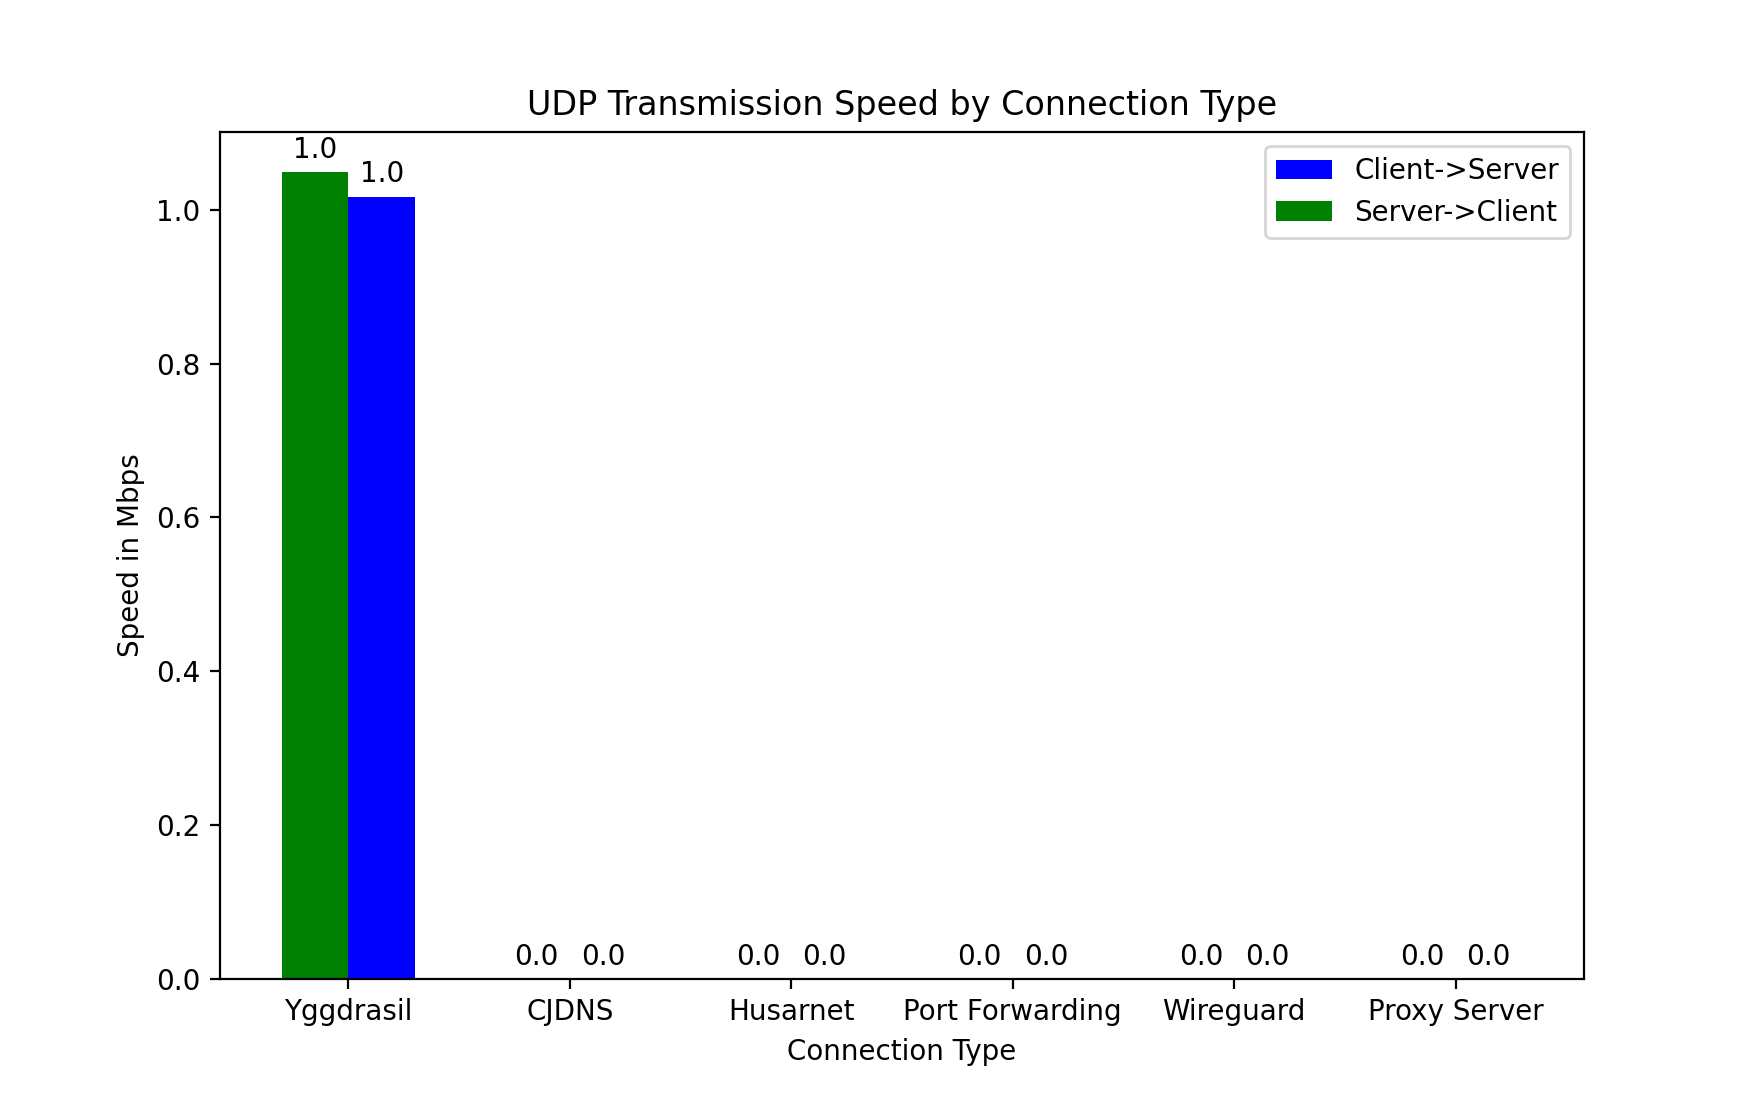
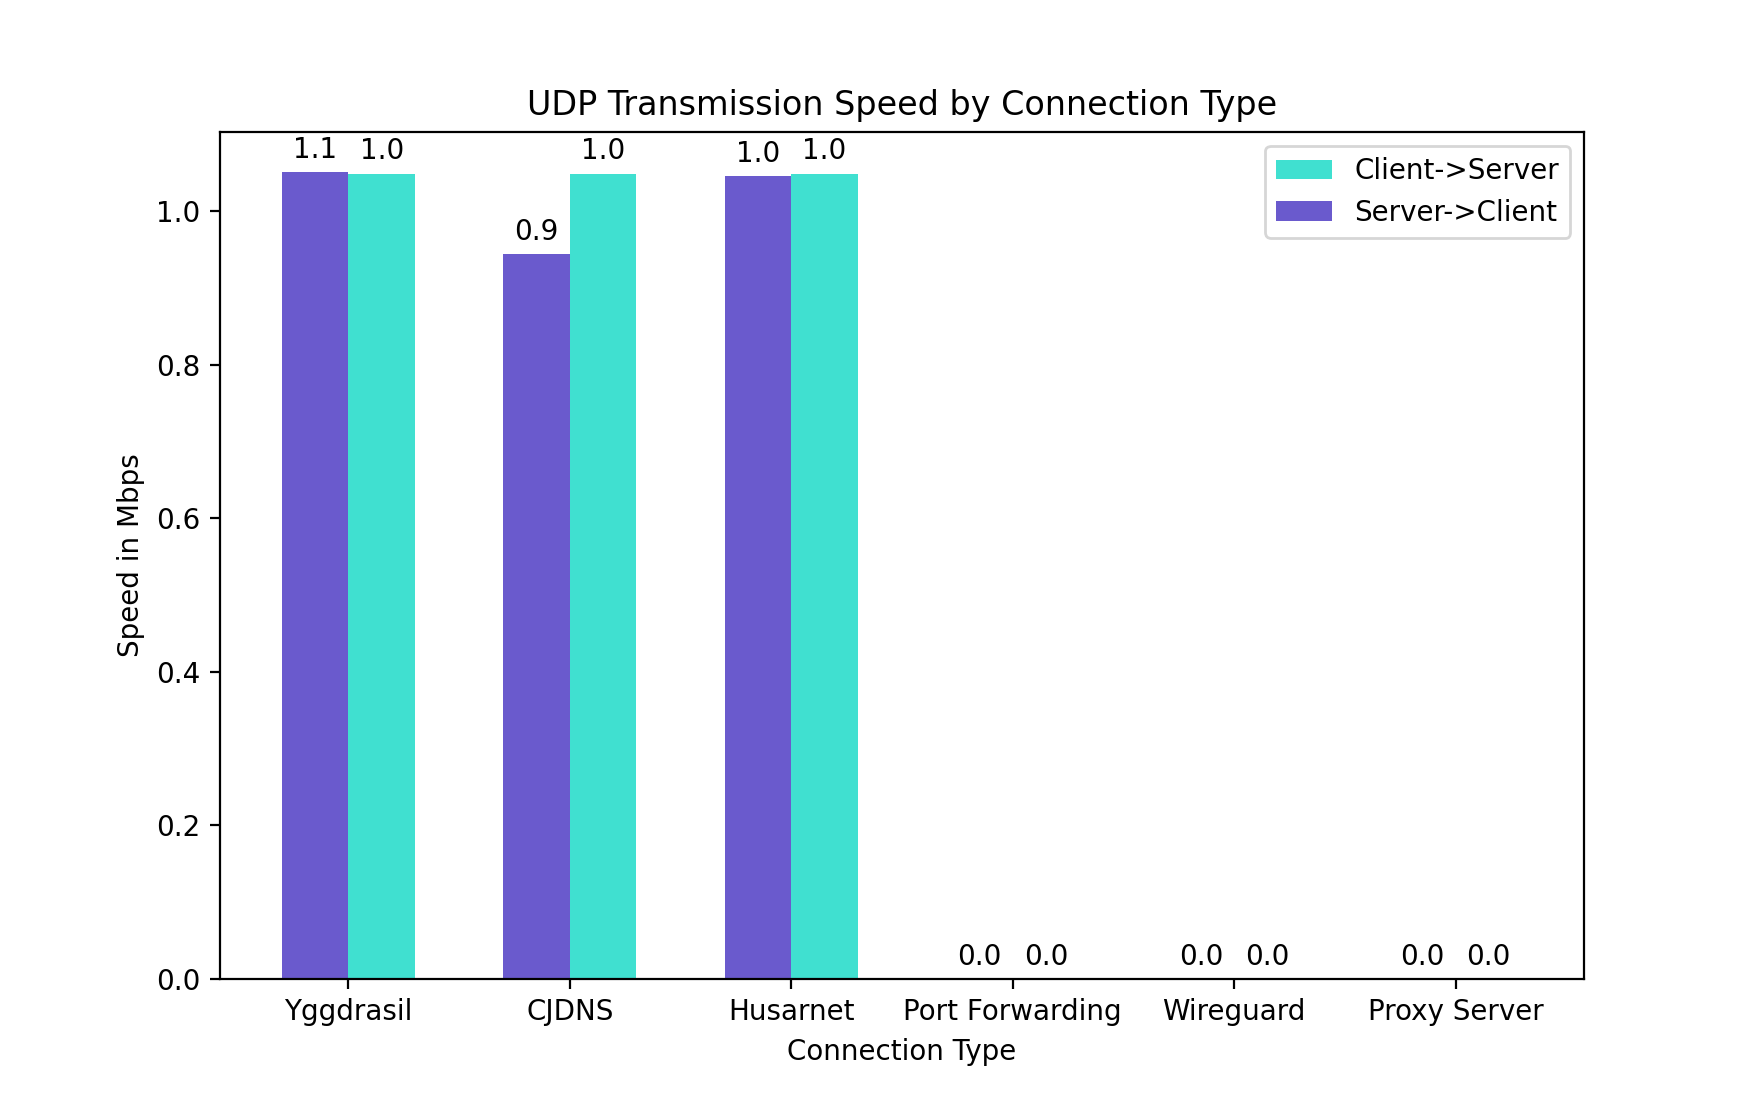
final working script; charts for 3/6 methods

diff --git a/src/plotscript.py b/src/plotscript.py
@@ -41,6 +41,9 @@ def autolabel(rects):
                     textcoords="offset points",
                     ha='center', va='bottom')
 
+# def sortKey(fileName):
+#     return fileName.split(".")[0].split("_")[:-1]
+
 # init empty arrays
 iperf_servers = [0] * 6
 iperf_clients = [0] * 6
@@ -58,7 +61,8 @@ print("Setup complete.\nGenerating iperf TCP chart...")
 ###################
 
 rel_path = path + "/iperf_tcp_test/"
-filelist = os.listdir(rel_path)
+filelist = sorted(os.listdir(rel_path))
+
 for a in filelist:
     if a.endswith(".csv"):
         data = pd.read_csv(rel_path + a)
@@ -76,8 +80,8 @@ for a in filelist:
 
 # setup graph
 ax = plt.subplot(111, label="iperf_tcp")
-l1 = ax.bar(x, iperf_clients, width=0.3, color='b', align='edge')
-l2 = ax.bar(x, iperf_servers, width=-0.3, color='g', align='edge')
+l1 = ax.bar(x, iperf_clients, width=0.3, color='orangered', align='edge')
+l2 = ax.bar(x, iperf_servers, width=-0.3, color='limegreen', align='edge')
 ax.legend((l1, l2), ("Client->Server", "Server->Client"))
 autolabel(l1)
 autolabel(l2)
@@ -107,7 +111,8 @@ print("iPerf TCP chart generated successfully!\nGenerating iPerf UDP chart...")
 ###################
 
 rel_path = path + "/iperf_udp_test/"
-filelist = os.listdir(rel_path)
+filelist = sorted(os.listdir(rel_path))
+
 for a in filelist:
     if a.endswith(".csv") and a.startswith("iperf_udp"):
         # compute averages and plot those
@@ -123,8 +128,8 @@ for a in filelist:
         iperf_clients[filelist.index(a)] = av2
 
 ax = plt.subplot(111, label="iperf_udp")
-l1 = ax.bar(x, iperf_servers, width=0.3, color='b', align='edge')
-l2 = ax.bar(x, iperf_clients, width=-0.3, color='g', align='edge')
+l1 = ax.bar(x, iperf_servers, width=0.3, color='turquoise', align='edge')
+l2 = ax.bar(x, iperf_clients, width=-0.3, color='slateblue', align='edge')
 ax.legend((l1, l2), ("Client->Server", "Server->Client"))
 autolabel(l1)
 autolabel(l2)
@@ -154,7 +159,8 @@ print("iPerf UDP chart generated successfully!\nGenerating ping chart...")
 ###################
 
 rel_path = path + "/ping_test/"
-filelist = os.listdir(rel_path)
+filelist = sorted(os.listdir(rel_path))
+
 for a in filelist:
     if a.endswith(".csv") and a.startswith("ping"):
         data = pd.read_csv(rel_path + a)
@@ -172,9 +178,9 @@ for a in filelist:
 ax = plt.subplot(111, label="ping")
 ax.set_xticks(x)
 ax.set_xticklabels(methods)
-l1 = ax.bar([i+0.3 for i in x], min_ping, width=0.3, color='b', align='center')
-l2 = ax.bar(x, avg_ping, width=0.3, color='g', align='center')
-l3 = ax.bar([i-0.3 for i in x], max_ping, width=0.3, color='r', align='center')
+l1 = ax.bar([i+0.3 for i in x], min_ping, width=0.3, color='orangered', align='center')
+l2 = ax.bar(x, avg_ping, width=0.3, color='forestgreen', align='center')
+l3 = ax.bar([i-0.3 for i in x], max_ping, width=0.3, color='royalblue', align='center')
 ax.legend((l1, l2, l3), ("Minimum roundtrip time",
                          "Average roundtrip time",
                          "Maximum roundtrip time"))
@@ -205,7 +211,8 @@ print("Ping chart generated successfully!\nGenerating ssh speed graphs...")
 ###################
 
 rel_path = path + "/ssh_test/"
-filelist = os.listdir(rel_path)
+filelist = sorted(os.listdir(rel_path))
+
 for a in filelist:
     if a.endswith(".csv"):
         data = pd.read_csv(rel_path + a)
@@ -224,17 +231,19 @@ for a in filelist:
 ax = plt.subplot(111, label="ssh")
 ax.set_xticks(x)
 ax.set_xticklabels(methods)
-l1 = ax.bar(x, ssh_upload, width=0.3, color='b', align='edge')
-l2 = ax.bar(x, ssh_download, width=-0.3, color='g', align='edge')
+l1 = ax.bar(x, ssh_upload, width=0.3, color='steelblue', align='edge')
+l2 = ax.bar(x, ssh_download, width=-0.3, color='sienna', align='edge')
 ax.legend((l1, l2), ("Average Upload Speed",
                      "Average Download Speed"))
 autolabel(l1)
 autolabel(l2)
 plt.xlabel('Connection Type')
-plt.ylabel('Speed in Mbps')
+plt.ylabel('Speed in Kbps')
+ax.set_title('SSH Data Transfer Speed by Connection Type')
 
 plt.savefig(str(run_loc) + "/../charts/ssh_chart.png", dpi=200)
 
+print("ssh chart generated successfully!")
 
 # complete!
 print("All charts generated successfully!")
